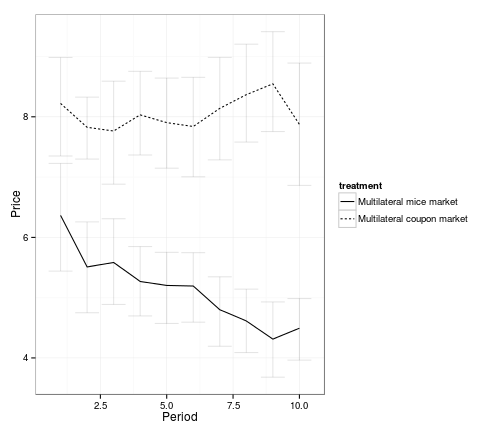
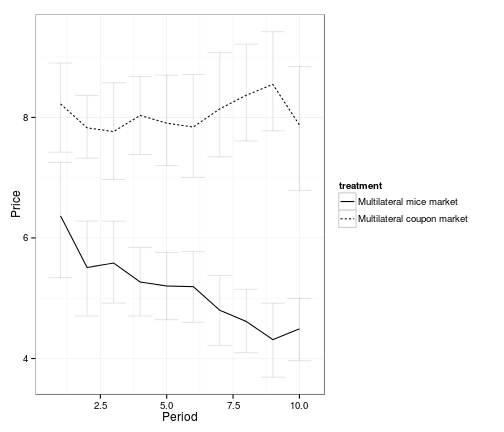
added Figures.md, removed Figures.md

diff --git a/Figures.html b/Figures.html
@@ -280,7 +280,7 @@ p = p + ylab(&quot;Price&quot;) + xlab(&quot;Period&quot;)
 print(p)
 </code></pre>
 
[2 lines of base64/hex data omitted]
 
 </body>
 

diff --git a/Figures.md b/Figures.md
@@ -1,0 +1,126 @@
+Falk, Szech: Morals and Markets
+========================================================
+
+
+```r
+# Data from http://www.cens.uni-bonn.de/experiments/falk-szech This is the
+# data from the paper at
+# http://www.sciencemag.org/content/340/6133/707.full.pdf Title: Morals and
+# Markets Feel free to fork, play around and improve.
+require(foreign)
+```
+
+```
+## Loading required package: foreign
+```
+
+```r
+# Data in proprietary Stata format, can be pulled from the authors' website
+Fig1.dta = read.dta("http://www.cens.uni-bonn.de/experiments/falk-szech/fig1.dta")
+Fig2.dta = read.dta("http://www.cens.uni-bonn.de/experiments/falk-szech/fig2.dta")
+tab_s1.dta = read.dta("http://www.cens.uni-bonn.de/experiments/falk-szech/tab-s1.dta")
+
+# Alternatively, the same data is included in the repository (as of Nov.
+# 20th, 2013) and can be used directly, should the need arise save(Fig1.dta,
+# Fig2.dta, tab_s1.dta, file='original_data.RData')
+# load('original_data.RData')
+table(Fig1.dta)
+```
+
+```
+##                       treatment
+## option_b               Individual Bilateral market Multilateral market
+##   rejected for 10\x80          67               10                  13
+##    accepted for 10\x80         57               26                  41
+```
+
+
+
+```r
+require(ggplot2)
+```
+
+```
+## Loading required package: ggplot2
+```
+
+```r
+theme_set(theme_bw())  # Simple backgrounds
+####################### Fig 1 Fig1.dta$option_b = as.factor(Fig1.dta$option_b) Fig1.dta$treatment
+####################### = as.factor(Fig1.dta$treatment)
+
+p = ggplot(Fig1.dta, aes(x = treatment, fill = option_b, ))
+p = p + geom_bar(position = "fill")
+# p = p + geom_errorbar() # see for details:
+# http://docs.ggplot2.org/0.9.3.1/geom_errorbar.html p = p + guides(fill =
+# guide_legend(reverse = FALSE))
+p = p + scale_fill_grey()
+p = p + ylab("Fraction") + xlab("")
+p = p + theme(legend.position = "none")
+print(p)
+```
+
+![plot of chunk unnamed-chunk-2](figure/unnamed-chunk-2.png) 
+
+
+
+
+
+```r
+####################### Fig 2
+require(ggplot2)
+require(Hmisc)
+```
+
+```
+## Loading required package: Hmisc
+## Loading required package: survival
+## Loading required package: splines
+## Loading required package: Formula
+## Hmisc library by Frank E Harrell Jr
+## 
+## Type library(help='Hmisc'), ?Overview, or ?Hmisc.Overview')
+## to see overall documentation.
+## 
+## 
+## Attaching package: 'Hmisc'
+## 
+## The following object is masked from 'package:survival':
+## 
+##     untangle.specials
+## 
+## The following object is masked from 'package:base':
+## 
+##     format.pval, round.POSIXt, trunc.POSIXt, units
+```
+
+```r
+require(plyr)  # to do some data processing, i.e. group wise aggregations, we use plyr
+```
+
+```
+## Loading required package: plyr
+## 
+## Attaching package: 'plyr'
+## 
+## The following object is masked from 'package:Hmisc':
+## 
+##     is.discrete, summarize
+```
+
+```r
+# http://stackoverflow.com/questions/14284189/ggplot-not-drawing-connection-lines-between-group-means-any-more
+Fig2.processed = ddply(Fig2.dta, ~period + treatment, function(x) mean_cl_boot(x$trade_price))
+p = ggplot(Fig2.processed, aes(x = period, y = y))
+p = p + geom_line(aes(linetype = treatment))
+p = p + geom_errorbar(aes(ymin = ymin, ymax = ymax), alpha = 0.1)
+p = p + scale_fill_grey()
+p = p + ylab("Price") + xlab("Period")
+# p = p + ylim(c(0,10)) + xlim(c(1,10))
+print(p)
+```
+
+![plot of chunk unnamed-chunk-3](figure/unnamed-chunk-3.png) 
+
+
+
